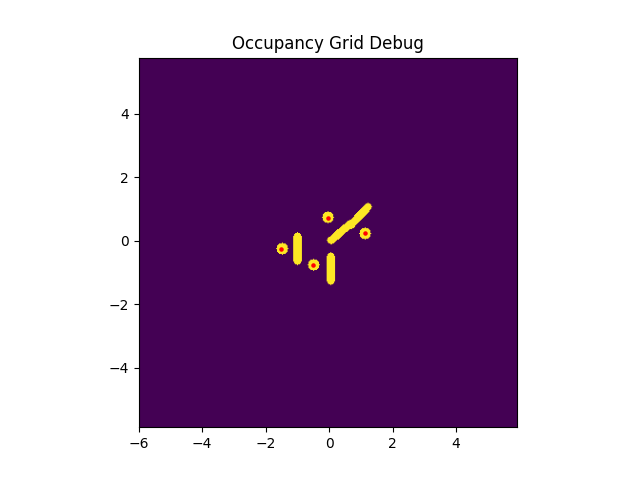
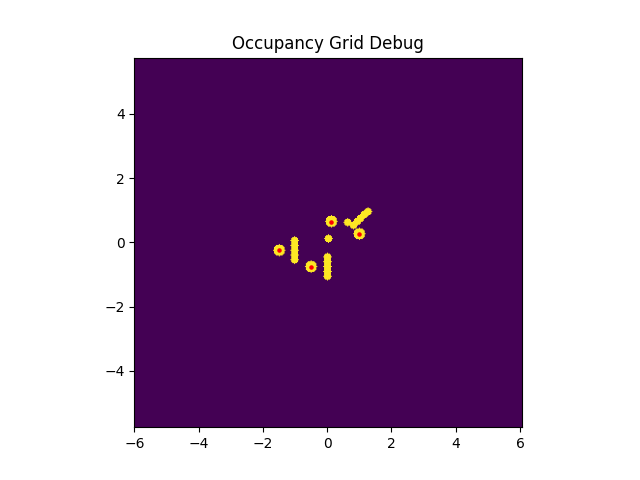
gate recognition better

diff --git a/lsy_drone_racing/control/my_controller.py b/lsy_drone_racing/control/my_controller.py
@@ -32,7 +32,7 @@ TIME_SCALE            = 3.0   # Zeitfaktor für Spline-Geschwindigkeit
 SLOWNDOWN_SCALE       = 2.0   # Faktor um letzten Abschnitt zu verlangsamen
 GATE_PROXIMITY_THRESHOLD = 0.5  # m – wann gilt die Drohne als "nahe" am Gate (Spline einfrieren)
 SENSOR_RANGE          = 0.7   # m – 100 for level 0,1, 0.7 für level 2
-PATH_STEP_LENGTH       = 0.05  # m – Abstand der Wegpunkte im Pfadplaner
+PATH_STEP_LENGTH       = 0.2  # m – Abstand der Wegpunkte im Pfadplaner
 # ─────────────────────────────────────────────────────────────────────────────
 
 
@@ -182,24 +182,33 @@ class MyController(Controller):
         for obs_pos in obstacles:
             self._mark_circle(grid, obs_pos[:2], inflate_obs, min_bounds)
 
-        # ── Nicht-Ziel-Gates als Wand ─────────────────────────────────────────
-        # Edit: Alle Gates als Wände markieren, damit A* nicht durch sie hindurch plant 
-        # wir haben ja approach/exit points als Pflichtpunkte
+        # current Gate als zwei poles darstellen
         for i in range(self._n_gates):
-            # if i == current_gate:
-            #     continue
-
+            if i != current_gate:
+                continue
             gate_center = self._gate_pos[i][:2]
             normal = self._gate_normal(i)[:2]
             normal /= np.linalg.norm(normal) + 1e-9
             perp = np.array([-normal[1], normal[0]])  # entlang Gate-Breite
 
-            # Punkte entlang der gesamten Gate-Breite (Wand)
-            n_pts = int((2 * GATE_HALF_WIDTH) / GRID_RESOLUTION) + 1
-            for j in range(n_pts):
-                offset = -GATE_HALF_WIDTH + j * GRID_RESOLUTION
-                pt = gate_center + offset * perp
-                self._mark_circle(grid, pt, inflate_gate, min_bounds)
+            pole1 = gate_center + GATE_HALF_WIDTH * perp
+            pole2 = gate_center - GATE_HALF_WIDTH * perp
+
+            self._mark_circle(grid, pole1, inflate_gate, min_bounds)
+            self._mark_circle(grid, pole2, inflate_gate, min_bounds)
+
+        # other gates als waand darstellen, wegen höhenkonflikten entlang gate breite
+        for i in range(self._n_gates):
+            if i == current_gate:
+                continue
+            gate_center = self._gate_pos[i][:2]
+            normal = self._gate_normal(i)[:2]
+            normal /= np.linalg.norm(normal) + 1e-9
+            perp = np.array([-normal[1], normal[0]])  # entlang Gate-Breite
+
+            for offset in np.linspace(-GATE_APPROACH_OFFSET, GATE_APPROACH_OFFSET, num=5):
+                wall_point = gate_center + offset * perp
+                self._mark_circle(grid, wall_point, inflate_gate, min_bounds)
 
         # Speichert das Grid als Bild ab, damit du siehst, was A* sieht
         plt.imshow(grid.T, origin='lower', extent=[min_bounds[0], max_bounds[0], min_bounds[1], max_bounds[1]])
@@ -279,7 +288,12 @@ class MyController(Controller):
 
         # ── Main loop ─────────────────────────────────────────────────────────────
         # iterate for maximum double the path length to goal in steps, to avoid infinite loops in complex scenarios
+        dist_to_goal = np.linalg.norm(start_xy - goal_xy)
+        if dist_to_goal < step_length * 1.5 and line_clear(grid, start_xy, goal_xy):
+            return np.array([start_xy, goal_xy])  # already close, just go straight
+        
         max_iterations = 2 * int(np.linalg.norm(start_xy - goal_xy) / step_length)
+        iteration = 0
         for iteration in range(max_iterations):
             if not open_set:
                 break
@@ -453,8 +467,8 @@ class MyController(Controller):
         if path_xy_1 is None:
             print("  [WARNING] No path found to approach point! Using direct line.")
             path_xy_1 = np.array([from_pos[:2], approach[:2]])
-        path_xy_2 = self._custom_star(grid, approach[:2], center[:2])
-        path_xy_3 = self._custom_star(grid, center[:2], exit_pt[:2])
+        path_xy_2 = self._custom_star(grid, approach[:2], center[:2], step_length=0.2)
+        path_xy_3 = self._custom_star(grid, center[:2], exit_pt[:2], step_length=0.2)
 
         self._current_exit = exit_pt.copy()
 
@@ -544,7 +558,7 @@ class MyController(Controller):
 
         # we want the gate only to update after exit
         # current_gate = int(obs["target_gate"])
-        current_gate = self._active_gate
+        self._active_gate = self._active_gate
         obs_target_gate = int(obs["target_gate"])
 
         # ── Phase 1: Takeoff ──────────────────────────────────────────────────
@@ -563,51 +577,23 @@ class MyController(Controller):
         # ── Phase 2: Spline initialisieren ────────────────────────────────────
         if self._spline is None:
             print(f"\n>>> Entering phase 2 at tick={self._tick}, t={t:.3f}")
-            self._build_spline(pos, gate_id=current_gate, obs=obs, label="phase2_init")
+            self._build_spline(pos, gate_id=self._active_gate, obs=obs, label="phase2_init")
 
-        # # This works with levels 0 and 1 but for level 2 we need more replanning
-        # if hasattr(self, "_current_exit") and self._current_exit is not None:
-        #     dist_to_exit = np.linalg.norm(pos - self._current_exit)
-        #     if dist_to_exit < 0.15:
-        #         print(f"  Approaching exit point, dist_to_exit={dist_to_exit:.2f}")
-        #         self._current_exit = None
-        #         self._build_spline(pos, current_gate, obs, label="approach_exit")
+        dist_to_gate = np.linalg.norm(pos - self._gate_pos[self._active_gate])
 
-        gate_center = self._gate_pos[current_gate]
-
-        # we want to replan every time we detect something new 
-        # but only if we are not already very close to the gate
-
-        dist_to_gate = np.linalg.norm(pos[:2] - gate_center[:2])
-
-        if self._obstacles_changed(obs, pos):
-            if dist_to_gate > GATE_PROXIMITY_THRESHOLD:
-                print(f"  Regular replan, dist_to_gate={dist_to_gate:.2f}")
-                self._build_spline(pos, current_gate, obs, label="regular_replan")
-            else:
-                print(f"  Near gate (dist={dist_to_gate:.2f}), skipping replan to avoid late reaction")
-      
-        if dist_to_gate < SENSOR_RANGE:
-            new_pos = obs["gates_pos"][current_gate]
-            if np.linalg.norm(new_pos - self._gate_pos[current_gate]) > 0.05:
-                print("  [REPLAN] gate pose refined")
-                self._gate_pos[current_gate] = new_pos
-                self._build_spline(pos, current_gate, obs, label="gate_update")
-        # ── Spline auswerten ──────────────────────────────────────────────────
+        # Bedingungen für neue Spline-Berechnung:
+        # Timeout - Ende der spline reached, update auf Zielgate
         t_elapsed = (self._tick - self._t_start_tick) / self._freq
-
-        if t_elapsed > self._t_total + 0.05:
-            # Nur replan wenn noch nicht in der Nähe des Gates/dahinter
-            # if dist_to_gate > GATE_PROXIMITY_THRESHOLD:
-            # update target gate
-            if obs_target_gate != self._active_gate:
-                print(f"  Target gate changed from {self._active_gate} to {obs_target_gate}")
-                self._active_gate = obs_target_gate
-            print(f"  [timeout] replan, dist_to_gate={dist_to_gate:.2f}")
-            self._build_spline(pos, self._active_gate, obs, label="timeout_replan")
-            # else:
-            #     # Spline eingefroren lassen – Drone ist schon nah genug
-            #     self._t_start_tick = self._tick  # Timer zurücksetzen damit kein Loop
+        if t_elapsed > self._t_total:
+            print(f"\n>>> Spline timeout reached at tick={self._tick}, t={t:.3f}")
+            self._active_gate = obs_target_gate
+            self._build_spline(pos, gate_id=self._active_gate, obs=obs, label="timeout")
+        # Dynamische Hindernisse haben sich geändert und weg von gate entfernt, also replannen
+        elif self._obstacles_changed(obs, pos):
+            if dist_to_gate > GATE_PROXIMITY_THRESHOLD:
+                print(f"\n>>> Obstacles changed at tick={self._tick}, t={t:.3f}")
+                self._build_spline(pos, gate_id=self._active_gate, obs=obs, label="obstacle_change")
+        #Thats it, we keep following the current spline
 
         t_sp    = min(t_elapsed, self._t_total)
         des_pos = self._spline(t_sp)
@@ -622,6 +608,8 @@ class MyController(Controller):
         #     print(f"  current pos : {np.round(pos, 3)}")
         #     print(f"  des_pos     : {np.round(des_pos, 3)}")
         #     print(f"  next (0.5s) : {np.round(future_pos, 3)}")
+
+        dist_to_gate = np.linalg.norm(pos - self._gate_pos[self._active_gate])
 
         # PID
         if dist_to_gate < GATE_PROXIMITY_THRESHOLD:
@@ -661,12 +649,15 @@ class MyController(Controller):
         # print(f"des_z={des_pos[2]:.2f}, actual_z={pos[2]:.2f}")
         # print(f"pos_error={np.round(pos_error,3)}, vel_error={np.round(vel_error,3)}, acc={np.round(acc,3)}")
 
-        target_pos = self._gate_pos[min(current_gate, self._n_gates - 1)]
+        target_pos = self._gate_pos[min(self._active_gate, self._n_gates - 1)]
         delta      = target_pos - pos
-        des_yaw    = float(np.arctan2(delta[1], delta[0]))
+        if dist_to_gate < GATE_PROXIMITY_THRESHOLD:
+            des_yaw = des_yaw = float(np.arctan2(float(self._gate_normal(self._active_gate)[1]), float(self._gate_normal(self._active_gate)[0])))
+        else:
+            des_yaw    = float(np.arctan2(delta[1], delta[0]))
 
         if self._tick % 20 == 0:
-            print(f"  [t={t:.2f}] gate={current_gate} "
+            print(f"  [t={t:.2f}] gate={self._active_gate} "
             f"pos={np.round(pos,3)} des={np.round(des_pos,3)} "
             f"err={np.round(pos-des_pos,3)}")
 
@@ -687,11 +678,11 @@ class MyController(Controller):
             print(f"position    : {np.round(obs['pos'], 3)}")
             print(f"velocity    : {np.round(obs['vel'], 3)}")
 
-            current_gate = int(obs["target_gate"])
-            print(f"target_gate : {current_gate}")
+            self._active_gate = int(obs["target_gate"])
+            print(f"target_gate : {self._active_gate}")
 
-            if current_gate < self._n_gates:
-                gate_pos = self._gate_pos[current_gate]
+            if self._active_gate < self._n_gates:
+                gate_pos = self._gate_pos[self._active_gate]
                 dist = np.linalg.norm(obs["pos"] - gate_pos)
 
                 print(f"gate_pos    : {np.round(gate_pos, 3)}")
@@ -711,11 +702,11 @@ class MyController(Controller):
             print(f"position    : {np.round(obs['pos'], 3)}")
             print(f"velocity    : {np.round(obs['vel'], 3)}")
 
-            current_gate = int(obs["target_gate"])
-            print(f"target_gate : {current_gate}")
+            self._active_gate = int(obs["target_gate"])
+            print(f"target_gate : {self._active_gate}")
 
-            if current_gate < self._n_gates:
-                gate_pos = self._gate_pos[current_gate]
+            if self._active_gate < self._n_gates:
+                gate_pos = self._gate_pos[self._active_gate]
                 dist = np.linalg.norm(obs["pos"] - gate_pos)
 
                 print(f"gate_pos    : {np.round(gate_pos, 3)}")
